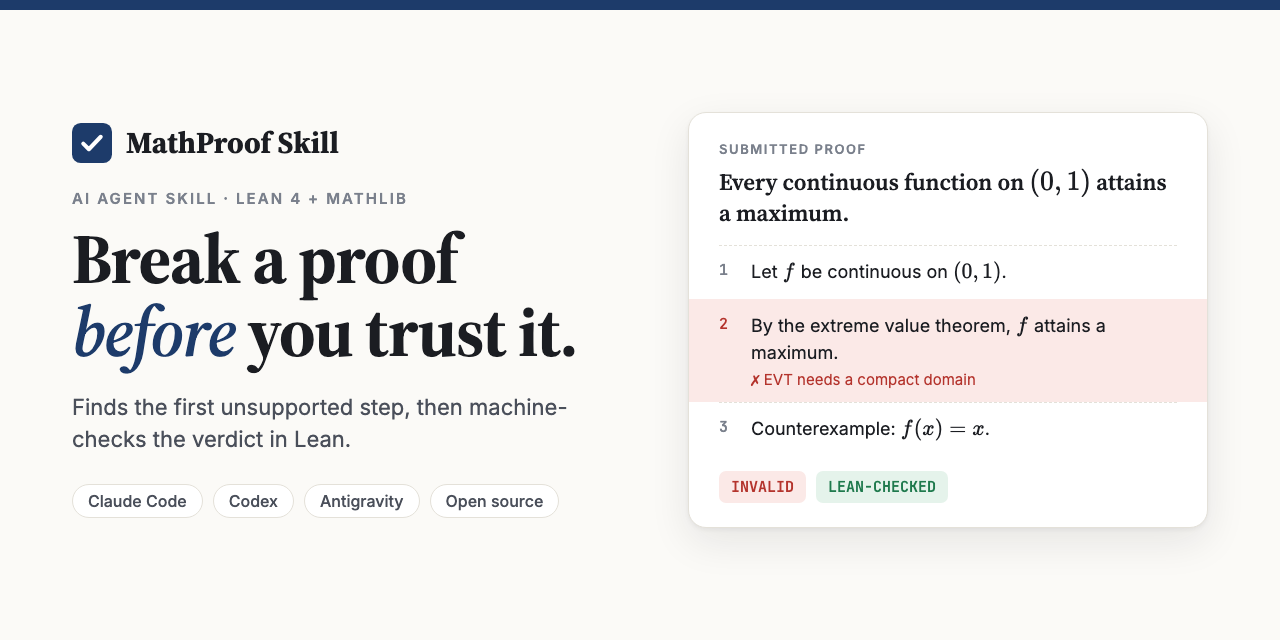
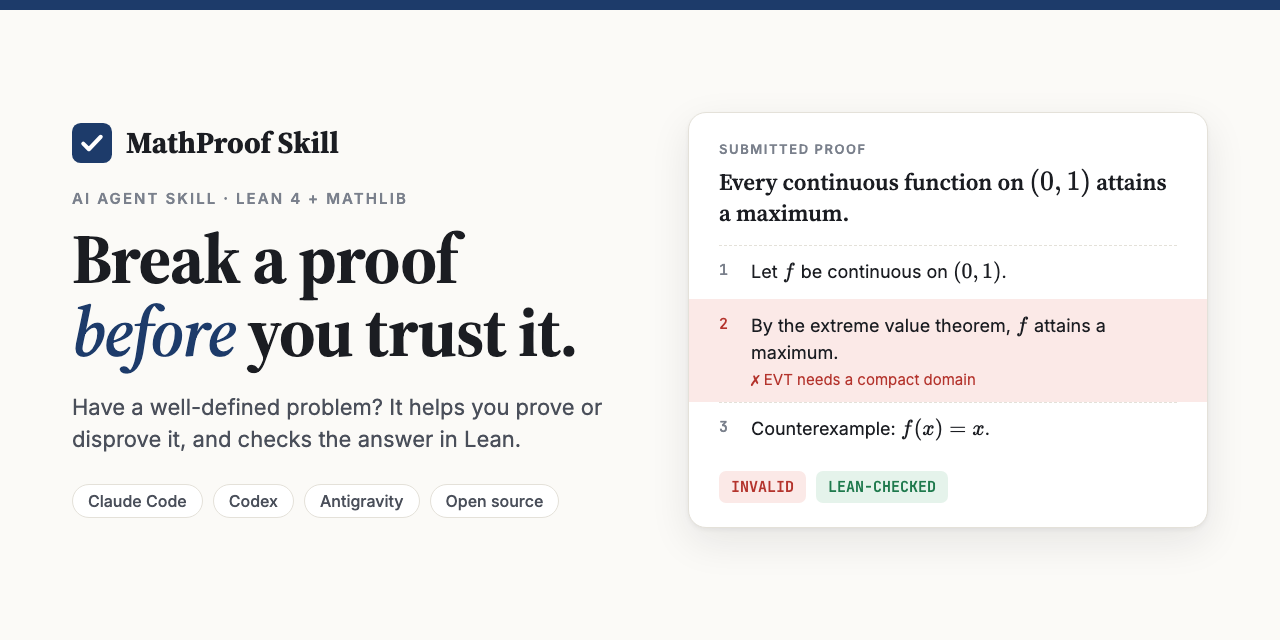
Lead with prove-or-disprove message on site, README, preview card, and posts

Changed region(s): [[0.0625, 0.625, 0.4688, 0.7188]]

diff --git a/docs/index.html b/docs/index.html
@@ -4,12 +4,12 @@
 <meta charset="utf-8">
 <meta name="viewport" content="width=device-width, initial-scale=1, viewport-fit=cover">
 <title>MathProof Skill — break a proof before you trust it</title>
-<meta name="description" content="A correctness-first AI agent skill for mathematical proofs. It audits every step adversarially, finds the first unsupported implication, and machine-checks results in Lean 4 with Mathlib. Works with Claude Code, Codex, and Antigravity.">
+<meta name="description" content="Have a well-defined math problem? MathProof Skill helps your AI agent prove it or disprove it, finds the first unsupported step in a proof, and machine-checks the answer in Lean 4 with Mathlib. Works with Claude Code, Codex, and Antigravity.">
 <meta name="keywords" content="AI proof checking, Lean 4, Mathlib, formal verification, agent skill, Claude Code, Codex, Antigravity, proof audit, counterexample, convex optimization, gradient descent">
 <link rel="canonical" href="https://ztang-yit-xiaang.github.io/mathproof-skill/">
 <meta property="og:type" content="website">
 <meta property="og:title" content="MathProof Skill — break a proof before you trust it">
-<meta property="og:description" content="An AI agent skill that audits proofs step by step and machine-checks them in Lean 4. 21 benchmark cases, all Lean-checked, including the O(1/k) rate of gradient descent.">
+<meta property="og:description" content="Have a well-defined problem? This AI agent skill helps you prove it or disprove it, and checks the answer in Lean 4.">
 <meta property="og:url" content="https://ztang-yit-xiaang.github.io/mathproof-skill/">
 <meta property="og:image" content="https://ztang-yit-xiaang.github.io/mathproof-skill/assets/og.png">
 <meta property="og:image:width" content="1280">
@@ -196,6 +196,7 @@ footer .wrap{display:flex;flex-wrap:wrap;gap:12px 28px;justify-content:space-bet
     <div>
       <div class="eyebrow">An open-source skill for AI agents · Lean 4 + Mathlib</div>
       <h1>Break a proof <em>before</em> you trust it.</h1>
+      <p class="lede" style="font-size:1.2rem;color:var(--ink)"><strong>Have a well-defined problem? This skill helps your agent prove it or disprove it, and checks the answer in Lean.</strong></p>
       <p class="lede">AI-written proofs fail quietly: the algebra looks polished, but one unsupported implication is buried in the middle. MathProof Skill makes your agent audit every step adversarially, find the <strong>first</strong> step that isn't earned, and then machine-check the result in Lean.</p>
       <div class="cta">
         <a class="btn primary" href="#install">Install in one command</a>

diff --git a/docs/assets/og-card.html b/docs/assets/og-card.html
@@ -33,7 +33,7 @@ h1 em{color:#1d3b6a;font-weight:600}
   <div class="brand"><svg width="40" height="40" viewBox="0 0 32 32"><rect width="32" height="32" rx="7" fill="#1d3b6a"/><path d="M9 16.5l4.5 4.5L23 11" stroke="#fff" stroke-width="3.2" fill="none" stroke-linecap="round" stroke-linejoin="round"/></svg>MathProof Skill</div>
   <div class="eyebrow">AI agent skill · Lean 4 + Mathlib</div>
   <h1>Break a proof <em>before</em> you trust it.</h1>
-  <div class="sub">Finds the first unsupported step, then machine-checks the verdict in Lean.</div>
+  <div class="sub">Have a well-defined problem? It helps you prove or disprove it, and checks the answer in Lean.</div>
   <div class="chips"><span>Claude Code</span><span>Codex</span><span>Antigravity</span><span>Open source</span></div>
 </div>
 <div class="card">

diff --git a/launch/posts.md b/launch/posts.md
@@ -1,18 +1,18 @@
-# Launch posts (drafts)
+# Launch posts
 
-Post one venue at a time, from your own accounts, and answer every reply. Links:
+Core message: **Have a well-defined problem? This skill helps you prove it or disprove it, and checks the answer in Lean.**
 
 - Site: https://ztang-yit-xiaang.github.io/mathproof-skill/
 - Repo: https://github.com/Ztang-Yit-Xiaang/mathproof-skill
-- Benchmark: https://github.com/Ztang-Yit-Xiaang/mathproof-skill/blob/main/evals/results/README.md
+- Claude Code: `/plugin install mathproof-skill --marketplace Ztang-Yit-Xiaang/mathproof-skill`
 
 ---
 
 ## Lean Zulip — #Machine Learning for Theorem Proving
 
-**Topic:** MathProof Skill: an agent skill that checks its own proof verdicts in Lean
+**Topic:** MathProof Skill: prove or disprove a well-defined claim, checked in Lean
 
-Hi all. I've been building an open-source "skill" (a packaged instruction set plus scripts) that coding agents such as Claude Code, Codex, and Antigravity load when asked to prove or audit a proof. It does an informal adversarial audit first. Then it formalizes the claim, or its negation, and only calls the result machine-checked if a checker passes.
+Hi all. I've built an open-source "skill" (a packaged instruction set plus scripts) for coding agents such as Claude Code, Codex, and Antigravity. Give it a well-defined claim and it helps you prove it or disprove it. It does an adversarial informal pass first: list the hypotheses, look for counterexamples, and find the first unjustified step of a proof. Then it formalizes the claim, or its negation, in Lean 4 + Mathlib, and only calls the result machine-checked if a checker passes.
 
 The part I'd most like feedback on is the trust boundary in `skill/scripts/lean_check.py`:
 
@@ -21,47 +21,45 @@ The part I'd most like feedback on is the trust boundary in `skill/scripts/lean_
 - it statically rejects `implemented_by`, `@[extern]`, `unsafe`, and `debug.skipKernelTC`;
 - it prints each required declaration's elaborated type, and the value for `Prop`-valued defs, so the agent has to fill in a fidelity table comparing the Lean statement with the informal one.
 
-The benchmark has 21 cases, all formalized in the repo. The most substantial is Nesterov's Theorem 2.1.14, the $O(1/k)$ rate of gradient descent for convex functions with an $L$-Lipschitz gradient on a real Hilbert space, proved from `ConvexOn` and `LipschitzWith L (∇ f)` with no extra assumptions. While formalizing it, the linter flagged the minimizer hypothesis as unused: the inequality holds for any reference point, and minimality only matters for interpreting the left side as the optimality gap.
+All 21 example cases are formalized in the repo: proofs of the true claims and formal refutations of the false ones. The most substantial is Nesterov's Theorem 2.1.14, the $O(1/k)$ rate of gradient descent for convex functions with an $L$-Lipschitz gradient on a real Hilbert space, proved from `ConvexOn` and `LipschitzWith L (∇ f)` with no extra assumptions. While formalizing it, the linter flagged the minimizer hypothesis as unused: the inequality holds for any reference point.
 
-What I'm unsure about: are there other escape hatches the checker should catch? Are there better ways to make the fidelity comparison less dependent on the agent's honesty? Criticism welcome.
+Are there other escape hatches the checker should catch? Are there better ways to make the fidelity comparison less dependent on the agent? Criticism welcome.
 
-Repo: https://github.com/Ztang-Yit-Xiaang/mathproof-skill
+https://github.com/Ztang-Yit-Xiaang/mathproof-skill
 
 ---
 
 ## Hacker News — Show HN
 
-**Title:** Show HN: An AI agent skill that won't accept a proof until Lean checks it
+**Title:** Show HN: Have a well-defined math problem? Prove or disprove it, checked in Lean
 
 **URL:** https://ztang-yit-xiaang.github.io/mathproof-skill/
 
 **First comment:**
 
-LLMs are trained to reach the conclusion you asked for, so when you ask for a proof you usually get one, even for a false claim. The failure is rarely arithmetic. It is usually a theorem applied outside its hypotheses, buried in otherwise fluent text.
+If you have a well-defined problem, this skill helps your AI agent prove it or disprove it, and then checks the answer in Lean 4.
 
-MathProof Skill is an open-source instruction set plus scripts that agents (Claude Code, Codex, Antigravity) load for proof work. It has three parts:
+LLMs are trained to reach the conclusion you asked for, so when you ask for a proof you usually get one, even for a false claim. The failure is rarely arithmetic. It is usually a theorem applied outside its hypotheses, buried in fluent text. MathProof Skill is an open-source instruction set plus scripts that agents (Claude Code, Codex, Antigravity) load for proof work:
 
-1. An adversarial audit protocol: type every object, list every hypothesis, look for counterexamples first, and find the *first* step that isn't justified by what comes before it. Later algebra can't rescue that step.
-2. Lean 4 + Mathlib checking: formalize the claim (or its negation), prove it, and run a checker that rejects `sorry` (including one hidden behind a macro), custom axioms, `native_decide`, and kernel bypasses.
-3. A fidelity table, because a correct proof of the wrong statement verifies nothing. Lean's junk values (`x/0 = 0`, truncated ℕ subtraction) are flagged explicitly.
-
-Honest caveat: I also benchmarked Claude Haiku and Sonnet with and without the skill on the 21 cases, and both already score 19–21/21 either way. The informal set is too easy, and the skill even made the small model over-strict on two valid proofs. Every raw answer is in the repo. What the skill adds on easy cases is the Lean layer: all 21 cases are formalized and checked in CI. I'm collecting harder cases, so if you have a flawed proof that fools current models, please send it.
+1. It decides whether to prove or refute: type every object, list every hypothesis, and look for counterexamples first. When auditing, it finds the *first* step that isn't justified by what comes before it.
+2. It formalizes the claim, or its negation, in Lean 4 + Mathlib and runs a checker that rejects `sorry` (including one hidden behind a macro), custom axioms, `native_decide`, and kernel bypasses.
+3. It fills in a fidelity table, because a correct proof of the wrong statement verifies nothing. Lean's junk values (`x/0 = 0`, truncated ℕ subtraction) are flagged explicitly.
 
 The showcase is Nesterov's O(1/k) gradient descent rate, formalized from Mathlib's definitions alone. Formalizing it showed that the "x* is a minimizer" hypothesis isn't needed for the inequality.
 
-Happy to answer questions. I'm especially interested in ways to fool the checker.
+Happy to answer questions, and especially interested in ways to fool the checker.
 
 ---
 
 ## Reddit — r/ClaudeAI
 
-**Title:** I made a Claude Code plugin that audits math proofs step by step and checks the verdict in Lean
+**Title:** Have a well-defined math problem? This Claude Code plugin helps you prove or disprove it, then checks the answer in Lean
 
 Install: `/plugin install mathproof-skill --marketplace Ztang-Yit-Xiaang/mathproof-skill`
 
-It makes Claude find the *first* unjustified step of a proof instead of polishing the conclusion, search for counterexamples, and, when Lean is available, formalize and machine-check the verdict (rejecting `sorry`, custom axioms, and `native_decide`). I also benchmarked it honestly: on the current 21 cases, Haiku and Sonnet already score 19–21/21 without it, so I'm looking for harder flawed proofs. Send me ones that fool Claude!
+Give Claude a well-defined claim and it decides whether to prove or disprove it. It lists the hypotheses, hunts for counterexamples, finds the *first* unjustified step in a proof instead of polishing the conclusion, and, when Lean is installed, formalizes and machine-checks the answer (rejecting `sorry`, custom axioms, and `native_decide`).
 
-It also works in Codex and Antigravity (`./scripts/install.sh`). MIT licensed. Site with examples: https://ztang-yit-xiaang.github.io/mathproof-skill/
+It also works in Codex and Antigravity (`./scripts/install.sh`). MIT licensed. Site with examples, including a Lean-checked proof of the O(1/k) rate of gradient descent: https://ztang-yit-xiaang.github.io/mathproof-skill/
 
 ---
 
@@ -76,33 +74,33 @@ Another detail: Lean defines $a/0=0$, so the main theorem has to be stated divis
 Write-up with every lemma: https://github.com/Ztang-Yit-Xiaang/mathproof-skill/blob/main/examples/06-gradient-descent-rate.md
 Lean file (~170 lines): https://github.com/Ztang-Yit-Xiaang/mathproof-skill/blob/main/lean/MathProofSkill/Evals/Optimization003.lean
 
-(It's part of a project that makes AI agents check proofs in Lean, but the math stands on its own.)
+(It comes from a tool I built that helps AI agents prove or disprove well-defined claims and check them in Lean, but the math stands on its own.)
 
 ---
 
 ## X / Bluesky / Mathstodon thread
 
-1/ AI-written proofs fail quietly: the algebra looks polished, but one unsupported step is buried in the middle. I built an open-source agent skill that hunts for that step first, then machine-checks the verdict in Lean 4. 🧵 https://ztang-yit-xiaang.github.io/mathproof-skill/ [attach og.png]
+1/ Have a well-defined math problem? I built an open-source AI agent skill that helps you prove it or disprove it, then checks the answer in Lean 4. 🧵 https://ztang-yit-xiaang.github.io/mathproof-skill/ [attach og.png]
 
-2/ The rule: when a step is challenged, freeze the proof just before it and re-derive the step from facts already available. Later algebra can't rescue an unsupported step.
+2/ It starts adversarially: list every hypothesis, hunt for counterexamples, and find the first step of a proof that isn't earned. Later algebra can't rescue an unsupported step.
 
-3/ Then Lean. The checker rejects `sorry`, even when hidden behind a macro, along with custom axioms, `native_decide`, and kernel bypasses. It prints the elaborated statement so you can check the theorem proved is the one claimed.
+3/ Then Lean. The checker rejects `sorry`, even when hidden behind a macro, along with custom axioms, `native_decide`, and kernel bypasses. It prints the elaborated statement so you can confirm the theorem proved is the one claimed.
 
 4/ Showcase: Nesterov's O(1/k) rate for gradient descent, proved from Mathlib's definitions. Lean flagged the "x* is a minimizer" hypothesis as unused: the bound holds for any reference point.
 
-5/ Honest benchmark: on my 21 cases, current models already score 19–21/21 without the skill, so I need harder ones. Send me a flawed proof that fools your favorite model. Works in Claude Code (as a plugin), Codex, and Antigravity. MIT. https://github.com/Ztang-Yit-Xiaang/mathproof-skill
+5/ Works in Claude Code (as a plugin), Codex, and Antigravity. MIT. https://github.com/Ztang-Yit-Xiaang/mathproof-skill
 
 ---
 
 ## LinkedIn
 
-I released MathProof Skill, an open-source tool that makes AI coding agents (Claude Code, Codex, Antigravity) audit mathematical proofs adversarially and machine-check their verdicts in Lean 4 with Mathlib.
+Have a well-defined math problem? I released MathProof Skill, an open-source tool that helps AI coding agents (Claude Code, Codex, Antigravity) prove it or disprove it, and then machine-checks the answer in Lean 4 with Mathlib.
 
-Why: language models are trained to reach the requested conclusion, so they produce fluent proofs of false claims. The skill looks for the first unsupported step, searches for counterexamples, and only calls a result machine-checked when a Lean checker passes with standard axioms only.
+Why: language models are trained to reach the requested conclusion, so they can produce fluent proofs of false claims. The skill lists every hypothesis, searches for counterexamples, finds the first unsupported step in a proof, and only calls a result machine-checked when a Lean checker passes with standard axioms only.
 
 Highlights:
-• An open benchmark with every raw model answer published, including the cases where the skill didn't help.
-• All 21 benchmark cases are formalized and checked in Lean in CI.
+• 21 example problems, each proved or refuted and checked in Lean in CI.
 • A graduate-level showcase: the O(1/k) convergence rate of gradient descent, formalized from first principles.
+• Installs as a Claude Code plugin in one command.
 
 Site: https://ztang-yit-xiaang.github.io/mathproof-skill/

diff --git a/README.md b/README.md
@@ -4,6 +4,8 @@
 [![Lean](https://github.com/Ztang-Yit-Xiaang/mathproof-skill/actions/workflows/lean.yml/badge.svg)](https://github.com/Ztang-Yit-Xiaang/mathproof-skill/actions/workflows/lean.yml)
 [![License: MIT](https://img.shields.io/badge/License-MIT-yellow.svg)](LICENSE)
 
+> **Have a well-defined problem? This skill helps you prove it or disprove it, and checks the answer in Lean.**
+>
 > A correctness-first AI skill that tries to break a mathematical proof before it accepts it.
 
 **Website:** https://ztang-yit-xiaang.github.io/mathproof-skill/
